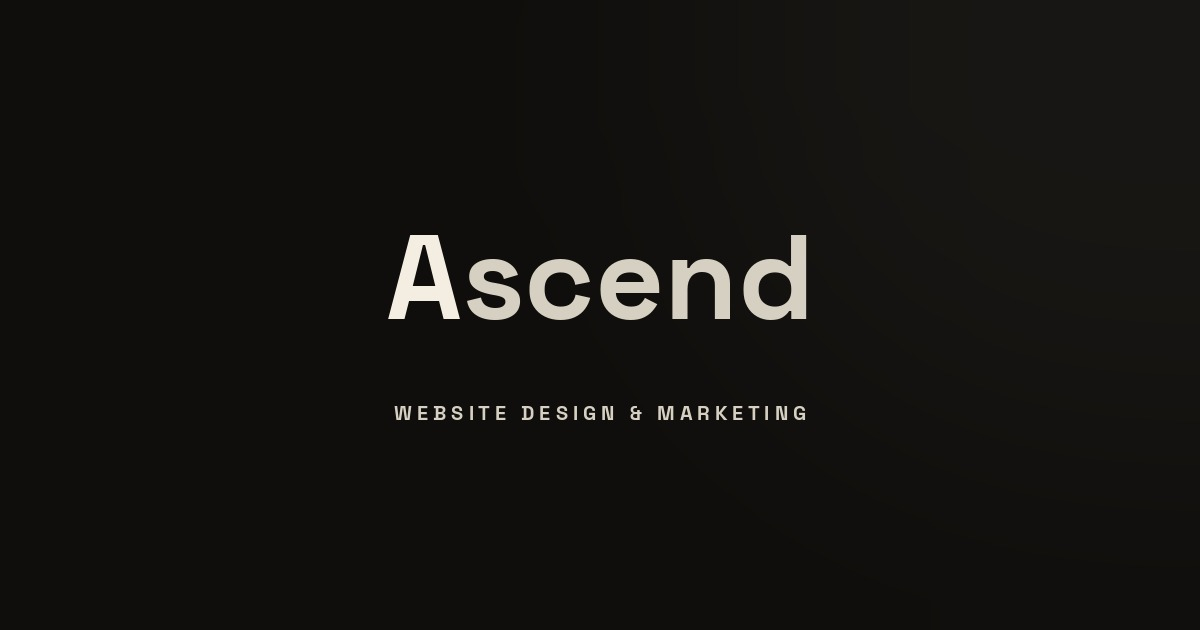
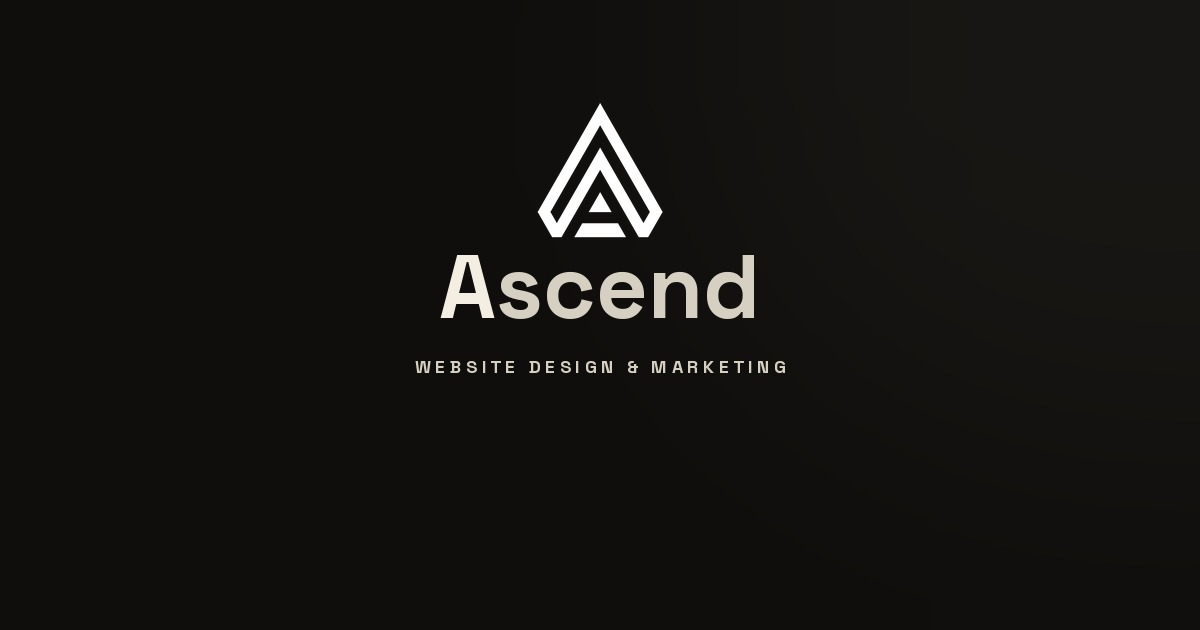
Add files via upload

Changed region(s): [[0.3083, 0.1508, 0.6783, 0.5127], [0.3083, 0.6333, 0.6783, 0.6635], [0.3392, 0.573, 0.6475, 0.6032]]

diff --git a/index.html b/index.html
@@ -43,7 +43,7 @@
 <div class="ascend-line"><div class="ascend-fill" id="ascendFill"></div></div>
 
 <nav id="nav">
-  <a href="/" class="logo">A<span>scend</span></a>
+  <a href="/" class="logo"><img src="/assets/brand/ascend-icon-white.png" alt="Ascend">A<span>scend</span></a>
   <div class="nav-links">
     <div class="nav-item">
       <button class="nav-trigger" type="button">Products
@@ -296,7 +296,7 @@
 <footer>
   <div class="wrap footer-grid">
     <div class="footer-brand">
-      <div class="logo">A<span>scend</span></div>
+      <div class="logo"><img src="/assets/brand/ascend-icon-white.png" alt="Ascend">A<span>scend</span></div>
       <p>Website design &amp; marketing for businesses that want to grow.</p>
     </div>
     <div class="footer-links">
@@ -315,7 +315,6 @@
       <a href="process">Process</a>
       <a href="about">About</a>
       <a href="learn">Learn</a>
-      <a href="contact">Contact</a>
       <a href="location">Location</a>
     </div>
     <div class="footer-links">
@@ -330,7 +329,7 @@
 <script src="script.js"></script>
 <script>
   (function() {
-    const words = ['your business', 'law firms', 'online courses', 'e-commerce', 'local service businesses'];
+    const words = ['your business', 'your enterprise', 'your startup'];
     const el = document.getElementById('typeTarget');
     if (!el) return;
     let wordIndex = 0, charIndex = 0, deleting = false;

diff --git a/portfolio.html b/portfolio.html
@@ -100,7 +100,7 @@
 <div class="ascend-line"><div class="ascend-fill" id="ascendFill"></div></div>
 
 <nav id="nav">
-  <a href="/" class="logo">A<span>scend</span></a>
+  <a href="/" class="logo"><img src="/assets/brand/ascend-icon-white.png" alt="Ascend">A<span>scend</span></a>
   <div class="nav-links">
     <div class="nav-item">
       <button class="nav-trigger" type="button">Products
@@ -266,7 +266,7 @@
 <footer>
   <div class="wrap footer-grid">
     <div class="footer-brand">
-      <div class="logo">A<span>scend</span></div>
+      <div class="logo"><img src="/assets/brand/ascend-icon-white.png" alt="Ascend">A<span>scend</span></div>
       <p>Website design &amp; marketing for businesses that want to grow.</p>
     </div>
     <div class="footer-links">
@@ -285,7 +285,6 @@
       <a href="process">Process</a>
       <a href="about">About</a>
       <a href="learn">Learn</a>
-      <a href="contact">Contact</a>
       <a href="location">Location</a>
     </div>
     <div class="footer-links">

diff --git a/pricing-ads.html b/pricing-ads.html
@@ -127,7 +127,7 @@
 <div class="ascend-line"><div class="ascend-fill" id="ascendFill"></div></div>
 
 <nav id="nav">
-  <a href="/" class="logo">A<span>scend</span></a>
+  <a href="/" class="logo"><img src="/assets/brand/ascend-icon-white.png" alt="Ascend">A<span>scend</span></a>
   <div class="nav-links">
     <div class="nav-item">
       <button class="nav-trigger" type="button">Products
@@ -225,7 +225,7 @@
 <footer>
   <div class="wrap footer-grid">
     <div class="footer-brand">
-      <div class="logo">A<span>scend</span></div>
+      <div class="logo"><img src="/assets/brand/ascend-icon-white.png" alt="Ascend">A<span>scend</span></div>
       <p>Website design &amp; marketing for businesses that want to grow.</p>
     </div>
     <div class="footer-links">
@@ -244,7 +244,6 @@
       <a href="process">Process</a>
       <a href="about">About</a>
       <a href="learn">Learn</a>
-      <a href="contact">Contact</a>
       <a href="location">Location</a>
     </div>
     <div class="footer-links">

diff --git a/pricing-seo.html b/pricing-seo.html
@@ -127,7 +127,7 @@
 <div class="ascend-line"><div class="ascend-fill" id="ascendFill"></div></div>
 
 <nav id="nav">
-  <a href="/" class="logo">A<span>scend</span></a>
+  <a href="/" class="logo"><img src="/assets/brand/ascend-icon-white.png" alt="Ascend">A<span>scend</span></a>
   <div class="nav-links">
     <div class="nav-item">
       <button class="nav-trigger" type="button">Products
@@ -258,7 +258,7 @@
 <footer>
   <div class="wrap footer-grid">
     <div class="footer-brand">
-      <div class="logo">A<span>scend</span></div>
+      <div class="logo"><img src="/assets/brand/ascend-icon-white.png" alt="Ascend">A<span>scend</span></div>
       <p>Website design &amp; marketing for businesses that want to grow.</p>
     </div>
     <div class="footer-links">
@@ -277,7 +277,6 @@
       <a href="process">Process</a>
       <a href="about">About</a>
       <a href="learn">Learn</a>
-      <a href="contact">Contact</a>
       <a href="location">Location</a>
     </div>
     <div class="footer-links">

diff --git a/pricing-web-design.html b/pricing-web-design.html
@@ -127,7 +127,7 @@
 <div class="ascend-line"><div class="ascend-fill" id="ascendFill"></div></div>
 
 <nav id="nav">
-  <a href="/" class="logo">A<span>scend</span></a>
+  <a href="/" class="logo"><img src="/assets/brand/ascend-icon-white.png" alt="Ascend">A<span>scend</span></a>
   <div class="nav-links">
     <div class="nav-item">
       <button class="nav-trigger" type="button">Products
@@ -271,7 +271,7 @@
 <footer>
   <div class="wrap footer-grid">
     <div class="footer-brand">
-      <div class="logo">A<span>scend</span></div>
+      <div class="logo"><img src="/assets/brand/ascend-icon-white.png" alt="Ascend">A<span>scend</span></div>
       <p>Website design &amp; marketing for businesses that want to grow.</p>
     </div>
     <div class="footer-links">
@@ -290,7 +290,6 @@
       <a href="process">Process</a>
       <a href="about">About</a>
       <a href="learn">Learn</a>
-      <a href="contact">Contact</a>
       <a href="location">Location</a>
     </div>
     <div class="footer-links">

diff --git a/pricing.html b/pricing.html
@@ -128,7 +128,7 @@
 <div class="ascend-line"><div class="ascend-fill" id="ascendFill"></div></div>
 
 <nav id="nav">
-  <a href="/" class="logo">A<span>scend</span></a>
+  <a href="/" class="logo"><img src="/assets/brand/ascend-icon-white.png" alt="Ascend">A<span>scend</span></a>
   <div class="nav-links">
     <div class="nav-item">
       <button class="nav-trigger" type="button">Products
@@ -305,7 +305,7 @@
 <footer>
   <div class="wrap footer-grid">
     <div class="footer-brand">
-      <div class="logo">A<span>scend</span></div>
+      <div class="logo"><img src="/assets/brand/ascend-icon-white.png" alt="Ascend">A<span>scend</span></div>
       <p>Website design &amp; marketing for businesses that want to grow.</p>
     </div>
     <div class="footer-links">
@@ -324,7 +324,6 @@
       <a href="process">Process</a>
       <a href="about">About</a>
       <a href="learn">Learn</a>
-      <a href="contact">Contact</a>
       <a href="location">Location</a>
     </div>
     <div class="footer-links">

diff --git a/social-media-marketing.html b/social-media-marketing.html
@@ -106,7 +106,7 @@
 <div class="ascend-line"><div class="ascend-fill" id="ascendFill"></div></div>
 
 <nav id="nav">
-  <a href="/" class="logo">A<span>scend</span></a>
+  <a href="/" class="logo"><img src="/assets/brand/ascend-icon-white.png" alt="Ascend">A<span>scend</span></a>
   <div class="nav-links">
     <div class="nav-item">
       <button class="nav-trigger" type="button">Products
@@ -266,7 +266,7 @@
 <footer>
   <div class="wrap footer-grid">
     <div class="footer-brand">
-      <div class="logo">A<span>scend</span></div>
+      <div class="logo"><img src="/assets/brand/ascend-icon-white.png" alt="Ascend">A<span>scend</span></div>
       <p>Website design &amp; marketing for businesses that want to grow.</p>
     </div>
     <div class="footer-links">
@@ -285,7 +285,6 @@
       <a href="process">Process</a>
       <a href="about">About</a>
       <a href="learn">Learn</a>
-      <a href="contact">Contact</a>
       <a href="location">Location</a>
     </div>
     <div class="footer-links">

diff --git a/about.html b/about.html
@@ -46,7 +46,7 @@
 <div class="ascend-line"><div class="ascend-fill" id="ascendFill"></div></div>
 
 <nav id="nav">
-  <a href="/" class="logo">A<span>scend</span></a>
+  <a href="/" class="logo"><img src="/assets/brand/ascend-icon-white.png" alt="Ascend">A<span>scend</span></a>
   <div class="nav-links">
     <div class="nav-item">
       <button class="nav-trigger" type="button">Products
@@ -155,7 +155,7 @@
 <footer>
   <div class="wrap footer-grid">
     <div class="footer-brand">
-      <div class="logo">A<span>scend</span></div>
+      <div class="logo"><img src="/assets/brand/ascend-icon-white.png" alt="Ascend">A<span>scend</span></div>
       <p>Website design &amp; marketing for businesses that want to grow.</p>
     </div>
     <div class="footer-links">
@@ -174,7 +174,6 @@
       <a href="process">Process</a>
       <a href="about">About</a>
       <a href="learn">Learn</a>
-      <a href="contact">Contact</a>
       <a href="location">Location</a>
     </div>
     <div class="footer-links">

diff --git a/case-study-abogadaus.html b/case-study-abogadaus.html
@@ -54,7 +54,7 @@
 <div class="ascend-line"><div class="ascend-fill" id="ascendFill"></div></div>
 
 <nav id="nav">
-  <a href="/" class="logo">A<span>scend</span></a>
+  <a href="/" class="logo"><img src="/assets/brand/ascend-icon-white.png" alt="Ascend">A<span>scend</span></a>
   <div class="nav-links">
     <div class="nav-item">
       <button class="nav-trigger" type="button">Products
@@ -174,7 +174,7 @@
 <footer>
   <div class="wrap footer-grid">
     <div class="footer-brand">
-      <div class="logo">A<span>scend</span></div>
+      <div class="logo"><img src="/assets/brand/ascend-icon-white.png" alt="Ascend">A<span>scend</span></div>
       <p>Website design &amp; marketing for businesses that want to grow.</p>
     </div>
     <div class="footer-links">
@@ -193,7 +193,6 @@
       <a href="process">Process</a>
       <a href="about">About</a>
       <a href="learn">Learn</a>
-      <a href="contact">Contact</a>
       <a href="location">Location</a>
     </div>
     <div class="footer-links">

diff --git a/case-study-ciudadanoready.html b/case-study-ciudadanoready.html
@@ -54,7 +54,7 @@
 <div class="ascend-line"><div class="ascend-fill" id="ascendFill"></div></div>
 
 <nav id="nav">
-  <a href="/" class="logo">A<span>scend</span></a>
+  <a href="/" class="logo"><img src="/assets/brand/ascend-icon-white.png" alt="Ascend">A<span>scend</span></a>
   <div class="nav-links">
     <div class="nav-item">
       <button class="nav-trigger" type="button">Products
@@ -175,7 +175,7 @@
 <footer>
   <div class="wrap footer-grid">
     <div class="footer-brand">
-      <div class="logo">A<span>scend</span></div>
+      <div class="logo"><img src="/assets/brand/ascend-icon-white.png" alt="Ascend">A<span>scend</span></div>
       <p>Website design &amp; marketing for businesses that want to grow.</p>
     </div>
     <div class="footer-links">
@@ -194,7 +194,6 @@
       <a href="process">Process</a>
       <a href="about">About</a>
       <a href="learn">Learn</a>
-      <a href="contact">Contact</a>
       <a href="location">Location</a>
     </div>
     <div class="footer-links">

diff --git a/contact.html b/contact.html
@@ -27,7 +27,7 @@
 <div class="ascend-line"><div class="ascend-fill" id="ascendFill"></div></div>
 
 <nav id="nav">
-  <a href="/" class="logo">A<span>scend</span></a>
+  <a href="/" class="logo"><img src="/assets/brand/ascend-icon-white.png" alt="Ascend">A<span>scend</span></a>
   <div class="nav-links">
     <div class="nav-item">
       <button class="nav-trigger" type="button">Products
@@ -120,7 +120,7 @@
 <footer>
   <div class="wrap footer-grid">
     <div class="footer-brand">
-      <div class="logo">A<span>scend</span></div>
+      <div class="logo"><img src="/assets/brand/ascend-icon-white.png" alt="Ascend">A<span>scend</span></div>
       <p>Website design &amp; marketing for businesses that want to grow.</p>
     </div>
     <div class="footer-links">
@@ -139,7 +139,6 @@
       <a href="process">Process</a>
       <a href="about">About</a>
       <a href="learn">Learn</a>
-      <a href="contact">Contact</a>
       <a href="location">Location</a>
     </div>
     <div class="footer-links">

diff --git a/course-education.html b/course-education.html
@@ -43,7 +43,7 @@
 <div class="ascend-line"><div class="ascend-fill" id="ascendFill"></div></div>
 
 <nav id="nav">
-  <a href="/" class="logo">A<span>scend</span></a>
+  <a href="/" class="logo"><img src="/assets/brand/ascend-icon-white.png" alt="Ascend">A<span>scend</span></a>
   <div class="nav-links">
     <div class="nav-item">
       <button class="nav-trigger" type="button">Products
@@ -167,7 +167,7 @@
 <footer>
   <div class="wrap footer-grid">
     <div class="footer-brand">
-      <div class="logo">A<span>scend</span></div>
+      <div class="logo"><img src="/assets/brand/ascend-icon-white.png" alt="Ascend">A<span>scend</span></div>
       <p>Website design &amp; marketing for businesses that want to grow.</p>
     </div>
     <div class="footer-links">
@@ -186,7 +186,6 @@
       <a href="process">Process</a>
       <a href="about">About</a>
       <a href="learn">Learn</a>
-      <a href="contact">Contact</a>
       <a href="location">Location</a>
     </div>
     <div class="footer-links">
